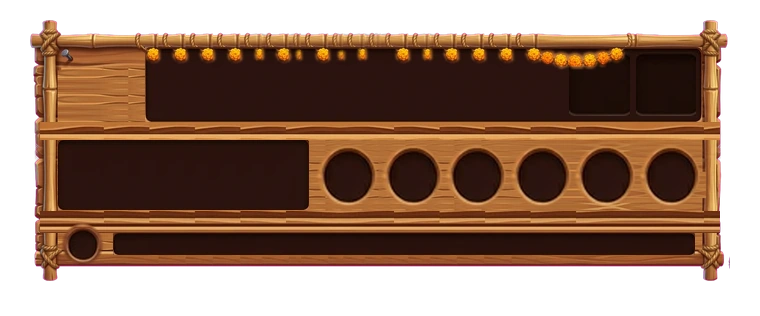
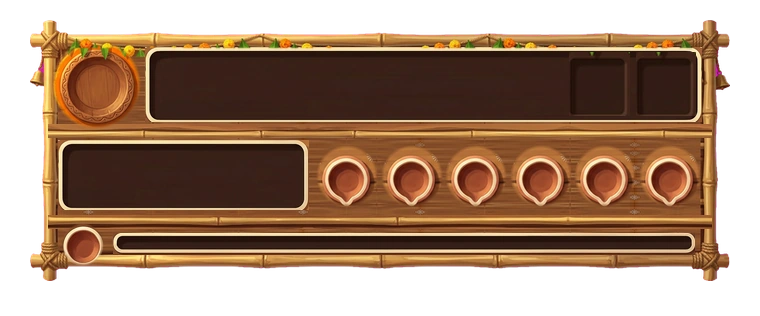
1.e Village: new festival board (bamboo, mango-leaf + marigold toran, Warli planks, diya sockets, carved dish behind the crest — Figma 361:191) on the locked layout
Claude-Session: https://claude.ai/code/session_01EnXvJ8XPeyqCUAaLS3ewZZ

diff --git a/art/ui/hud_lock/build_locked_boards.py b/art/ui/hud_lock/build_locked_boards.py
@@ -49,6 +49,9 @@ def frac_hud():
 
 # ---- per-board source measurements (original px, 760 wide). slots = the board's own HUD fractions ----
 B = {
+ 'village2': dict(k=.921, Ri=(30, 72, 728, 290), mat=(139, 147, 380, 560), amp=.9, badgeRing=(110, 100, 55), overBand=(18, 47, 30, 730), overKind='toran', chaseFrom='score', deco=[('rails', [(126, 140, 300, 560), (231, 245, 300, 560)], (48, 712))],
+   chase=[0.2474, 0.0618, 0.9342, 0.1605], wk=[0.7697, 0.0816, 0.8289, 0.1421], score=[0.0684, 0.2237, 0.3947, 0.2895],
+   sock=[0.4539, 0.2382, 0.0355], badge=[0.0724, 0.0592, 0.2171, 0.2039], eIcon=[0.1184, 0.3487, 0.0197], eBar=[0.1645, 0.3355, 0.8947, 0.3711]),
  'school2': dict(k=.921, Ri=(18, 30, 742, 284), mat=(108, 113, 200, 560), amp=.8, badgeRing=(86, 70, 37), deco=[('rails', [(114, 128, 200, 500), (212, 226, 200, 500)], (52, 708))],
    chase=[0.1974, 0.0421, 0.9474, 0.1395], wk=[0.7763, 0.0579, 0.8421, 0.1263], score=[0.0526, 0.1776, 0.4105, 0.2711],
    sock=[0.4697, 0.2237, 0.0276], badge=[0.0632, 0.0421, 0.1632, 0.1421], eIcon=[0.1105, 0.3316, 0.0171], eBar=[0.1658, 0.3132, 0.8526, 0.35]),
@@ -218,7 +221,7 @@ def build(name, src, P):
                 paste(out, st, sx1, gy - st.shape[0] / 2)
     if 'sockPanel' in P:
         put_panel(P['sockPanel'], t['sockPanel'])
-    put_panel(pr('chase'), t['chase'], mirror=True)
+    put_panel(pr(P.get('chaseFrom', 'chase')), t['chase'], mirror=True)   # chaseFrom: borrow another panel's art when garlands hang over the original
     put_panel(pr('score'), t['score'])
     put_panel(pr('eBar'), t['eBar'], c=10)
     w = pr('wk')
@@ -243,7 +246,14 @@ def build(name, src, P):
         y1, y2, x1, x2 = P['overBand']; fr = f[:BODY]; rgb = fr[..., :3] / 255.0
         green = (rgb[..., 1] > rgb[..., 0] + .06) & (rgb[..., 1] > rgb[..., 2] + .06)
         cream = (rgb.min(-1) > .62) & (rgb.max(-1) - rgb.min(-1) < .28)
-        m = np.zeros(fr.shape[:2], bool); m[y1:y2, x1:x2] = (green | cream)[y1:y2, x1:x2]
+        if P.get('overKind') == 'toran':
+            r_, g_, b_ = rgb[..., 0], rgb[..., 1], rgb[..., 2]
+            leaf = (g_ > r_ + .05) & (g_ > b_ + .1) & (g_ > .3)
+            mari = (r_ > .8) & (g_ > .35) & (b_ < .3) & ((r_ - b_) > .55)
+            sel = leaf | mari
+        else:
+            sel = green | cream
+        m = np.zeros(fr.shape[:2], bool); m[y1:y2, x1:x2] = sel[y1:y2, x1:x2]
         from PIL import ImageFilter
         mi = Image.fromarray((m * 255).astype(np.uint8)).filter(ImageFilter.MaxFilter(3)).filter(ImageFilter.GaussianBlur(.8))
         al = np.array(mi).astype(np.float32)[..., None] / 255.0
